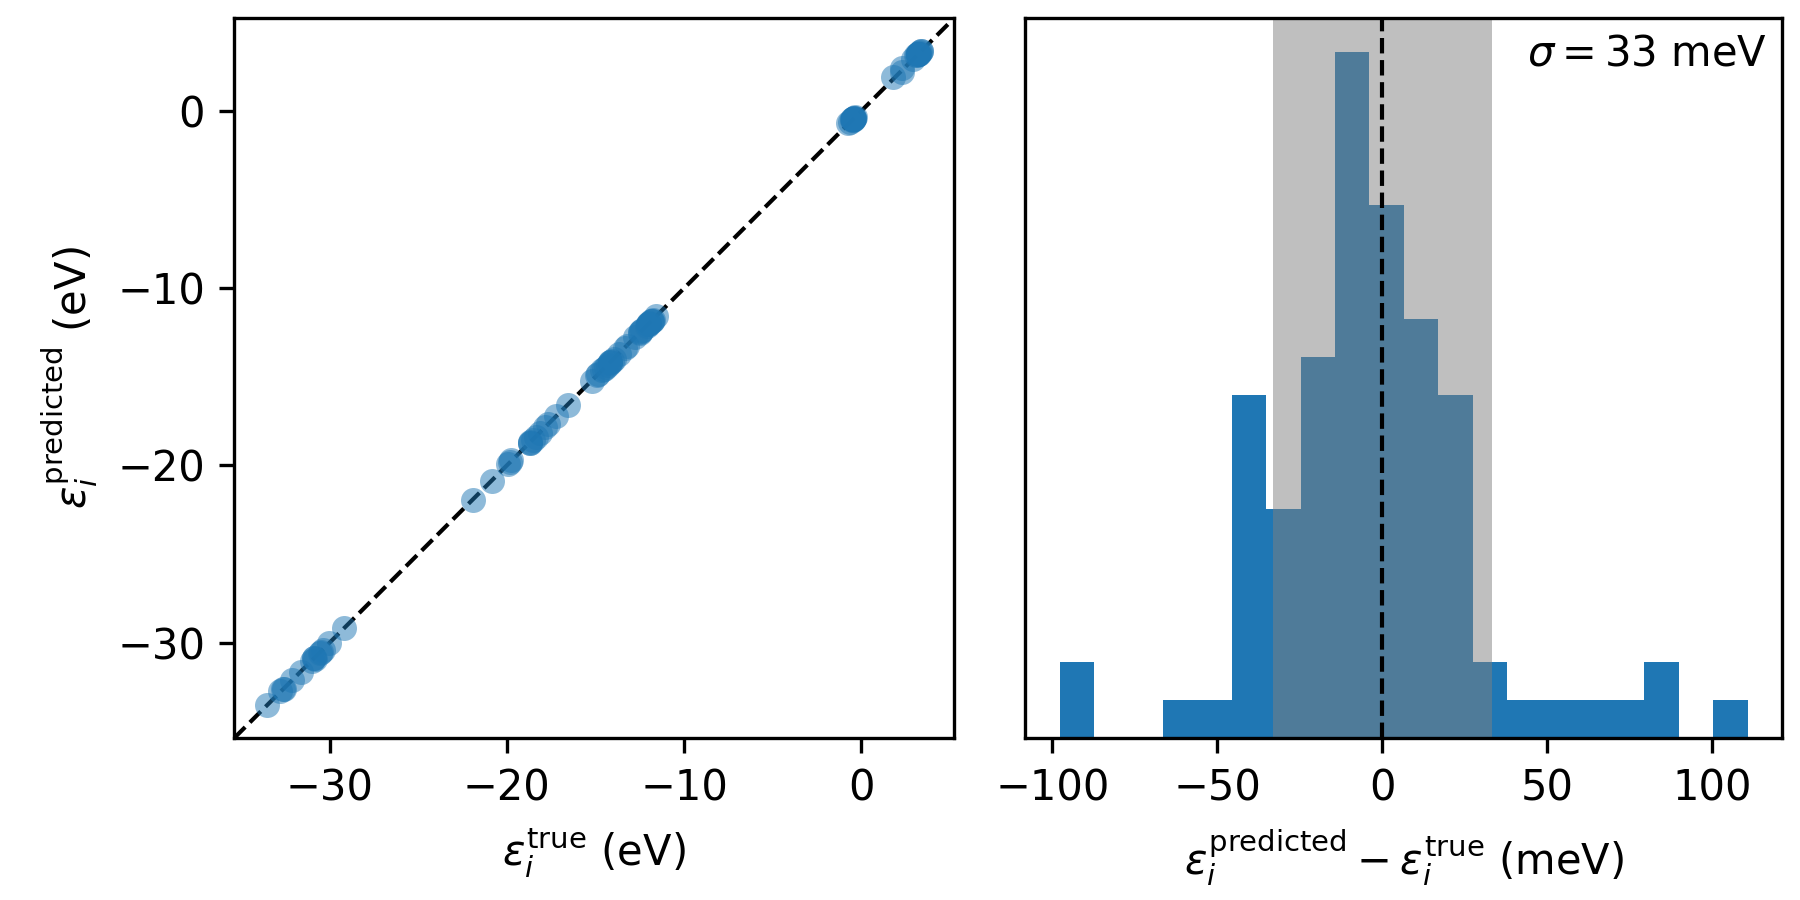
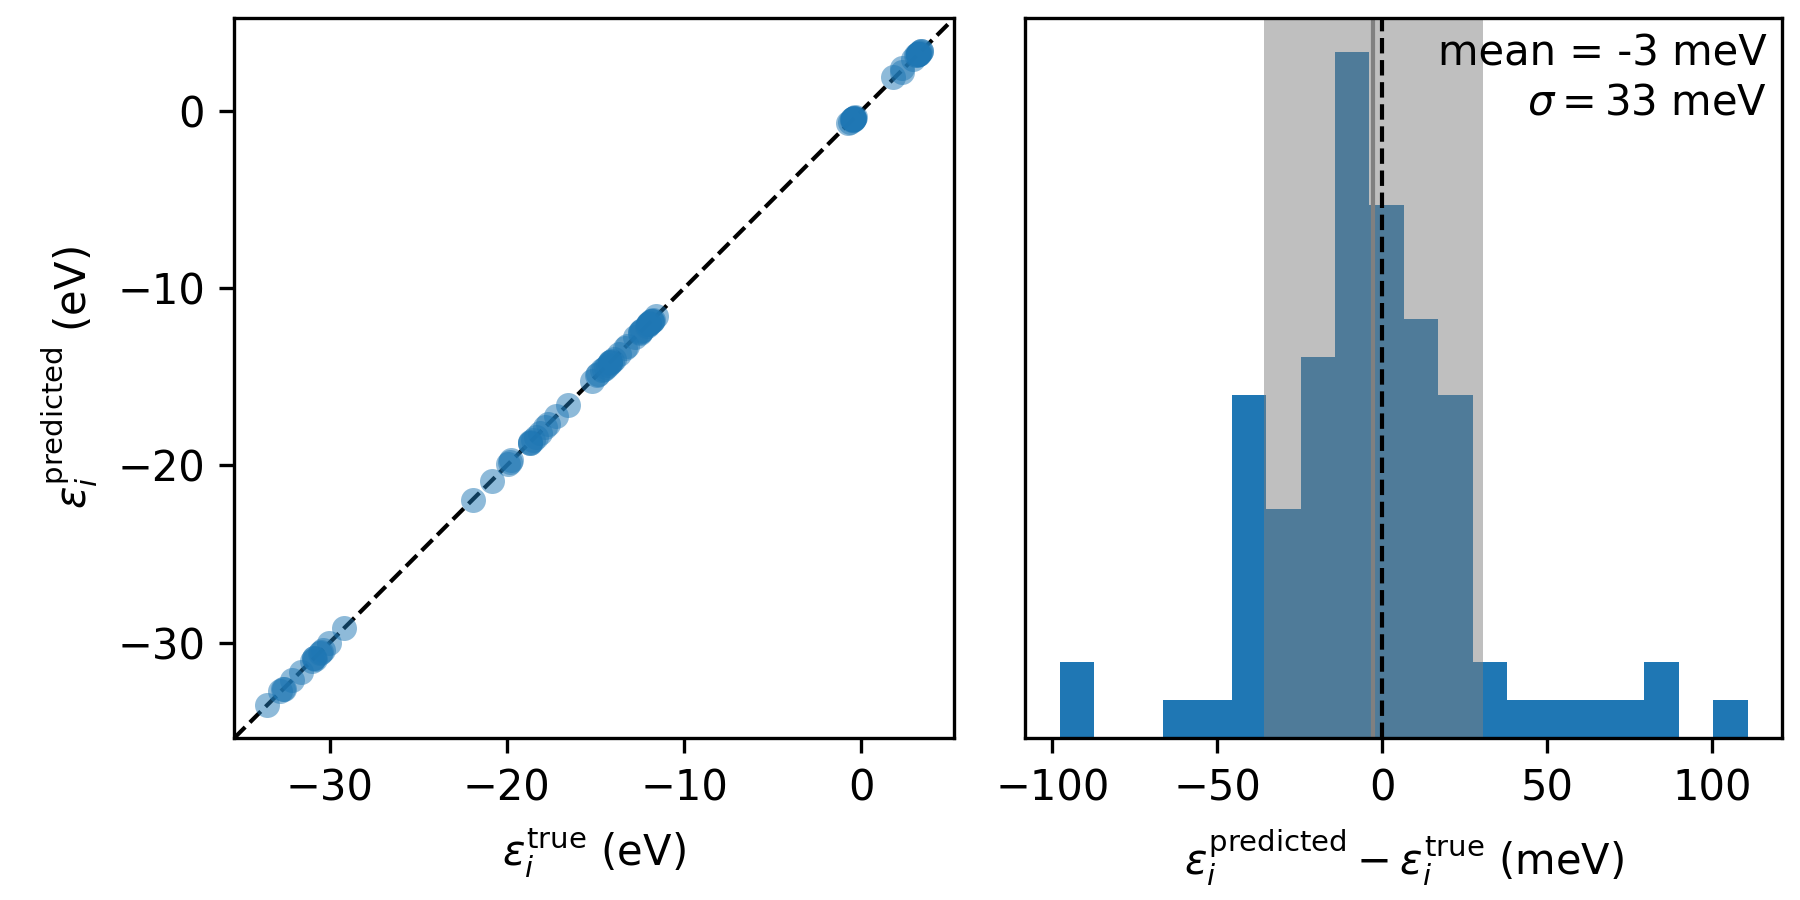
Making tutorial 5 work

Changed region(s): [[0.8089, 0.0311, 0.9956, 0.8089], [0.6844, 0.0311, 0.7156, 0.8089]]

diff --git a/tutorials/tutorial_5/03-test/plot.py b/tutorials/tutorial_5/03-test/plot.py
@@ -35,11 +35,13 @@ ax1.hist(errors_meV, bins=20, orientation='vertical')
 ax1.axvline(0, color='black', linestyle='--', lw=1)
 ax1.set_yticks([])
 ax1.set_xlabel(r'$\varepsilon^\mathrm{predicted}_i - \varepsilon^\mathrm{true}_i$ (meV)')
+mean = np.mean(errors_meV)
+ax1.axvline(mean, color='grey', linestyle='-', lw=1)
 std = np.std(errors_meV)
 ymax = ax1.get_ylim()[1]
-ax1.fill_betweenx([0, ymax], -std, std, color='gray', alpha=0.5, lw=0)
+ax1.fill_betweenx([0, ymax], mean - std, mean + std, color='gray', alpha=0.5, lw=0)
 ax1.set_ylim(0, ymax)
-ax1.text(0.98, 0.98, f'$\sigma = {std:.0f}$ meV', transform=ax1.transAxes, ha='right', va='top')
+ax1.text(0.98, 0.98, f'mean = {mean:.0f} meV\n$\sigma = {std:.0f}$ meV', transform=ax1.transAxes, ha='right', va='top')
 
 # Save the figure
 plt.subplots_adjust(left=0.12, right=0.99, top=0.98, bottom=0.18, wspace=0.07)

diff --git a/src/koopmans/workflows/_trajectory.py b/src/koopmans/workflows/_trajectory.py
@@ -61,6 +61,9 @@ class TrajectoryWorkflow(Workflow):
         if not all([w.status == Status.COMPLETED for w in workflows]):
             return
 
+        self.calculations += [c for w in workflows for c in w.calculations]
+        self.steps += [s for w in workflows for s in w.steps]
+
         self.outputs = self.output_model(snapshot_outputs=[w.outputs for w in workflows])
         self.status = Status.COMPLETED
 

diff --git a/tutorials/tutorial_5/04-advanced-testing/train_and_verify.py b/tutorials/tutorial_5/04-advanced-testing/train_and_verify.py
@@ -32,7 +32,7 @@ for i in range(n_total):
 models = []
 training_data = []
 for i, ab_initio_wf in enumerate(ab_initio_wfs[:n_train]):
-    model = MLModel('ridge_regression', descriptor='orbital_density')
+    model = MLModel('ridge_regression', descriptor='orbital_density', engine=ab_initio_wf.engine)
     training_data += ab_initio_wf.bands.to_solve
     model.add_training_data(training_data)
     model.train()

diff --git a/src/koopmans/processes/bin2xml.py b/src/koopmans/processes/bin2xml.py
@@ -30,7 +30,7 @@ class Bin2XMLProcess(CommandLineTool):
 
     def _pre_run(self):
         super()._pre_run()
-        if not self.inputs.binary.parent_process.exists():
+        if not self.inputs.binary.exists():
             raise FileNotFoundError(f'`{self.inputs.binary}` does not exist')
 
         # Link the input binary file to the directory of this process as input.dat

diff --git a/src/koopmans/processes/power_spectrum.py b/src/koopmans/processes/power_spectrum.py
@@ -62,7 +62,7 @@ class ExtractCoefficientsFromXMLProcess(Process):
         alpha_file.write_bytes(alphas.tobytes())
 
         beta_file = File(self, f'betas_{suffix}.npy')
-        beta_file.write_file(betas.tobytes())
+        beta_file.write_bytes(betas.tobytes())
 
         # Compute the decomposition
         orbital_files, total_files = ml.compute_decomposition(
